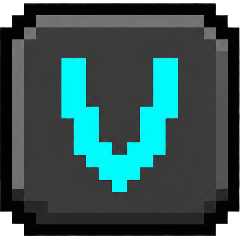
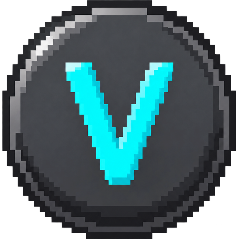
feat(touch): import corrected 0.3.5 art and PC box gesture module

diff --git a/src/OpenGMK/gm8emulator/src/box_touch.rs b/src/OpenGMK/gm8emulator/src/box_touch.rs
@@ -1,0 +1,237 @@
+//! PC-box input arbitration. A stationary hold must not pick up a Pokémon first.
+//! The Android bridge owns context/lifecycle cancellation and sends the initial hover.
+use std::time::{Duration, Instant};
+
+pub const LEFT: u8 = 0;
+pub const RIGHT: u8 = 2; // ramen: 0=left, 1=middle, 2=right
+const HOLD: Duration = Duration::from_secs(1);
+const HOVER: Duration = Duration::from_millis(45);
+const CLICK: Duration = Duration::from_millis(70);
+
+#[derive(Clone, Copy, Debug, PartialEq)]
+pub struct Point(pub f32, pub f32);
+
+#[derive(Clone, Copy, Debug, PartialEq)]
+pub enum Event {
+    Move(Point),
+    Down(Point, u8),
+    Up(Point, u8),
+}
+
+#[derive(Clone, Copy)]
+enum Phase {
+    Waiting,
+    LeftPending(Instant),
+    LeftDown { at: Instant, last: Point },
+    RightDown(Instant),
+    Consumed,
+}
+
+struct Gesture {
+    id: i32,
+    origin: Point,
+    latest: Point,
+    started: Instant,
+    slop: f32,
+    released: bool,
+    allow_hold: bool,
+    phase: Phase,
+}
+
+pub struct BoxTouch {
+    gesture: Option<Gesture>,
+}
+
+impl BoxTouch {
+    pub const fn new() -> Self { Self { gesture: None } }
+
+    pub fn owns(&self, id: i32) -> bool {
+        self.gesture.as_ref().is_some_and(|g| g.id == id)
+    }
+
+    pub fn begin(&mut self, id: i32, point: Point, height: f32, now: Instant) -> bool {
+        if let Some(g) = self.gesture.as_mut() {
+            // There is one game mouse. A second finger cannot move or release it.
+            g.allow_hold = false;
+            return false
+        }
+        self.gesture = Some(Gesture {
+            id, origin: point, latest: point, started: now,
+            slop: (height * 0.015).clamp(8.0, 24.0),
+            released: false, allow_hold: true, phase: Phase::Waiting,
+        });
+        true
+    }
+
+    pub fn moved(&mut self, id: i32, point: Point, now: Instant) -> bool {
+        let Some(g) = self.gesture.as_mut().filter(|g| g.id == id) else { return false };
+        if g.released { return true }
+        g.latest = point;
+        let dx = point.0 - g.origin.0;
+        let dy = point.1 - g.origin.1;
+        if matches!(g.phase, Phase::Waiting) && dx * dx + dy * dy > g.slop * g.slop {
+            g.allow_hold = false;
+            g.phase = Phase::LeftPending((g.started + HOVER).max(now));
+        }
+        true
+    }
+
+    pub fn end(&mut self, id: i32, point: Point, now: Instant) -> bool {
+        if !self.moved(id, point, now) { return false }
+        let g = self.gesture.as_mut().unwrap();
+        g.released = true;
+        if matches!(g.phase, Phase::Waiting) && !(g.allow_hold && now >= g.started + HOLD) {
+            g.phase = Phase::LeftPending((g.started + HOVER).max(now));
+        }
+        if matches!(g.phase, Phase::Consumed) { self.gesture = None; }
+        true
+    }
+
+    /// Down and up always reach separate polls, including when a slow frame misses the deadline.
+    pub fn poll(&mut self, now: Instant) -> Vec<Event> {
+        let mut events = Vec::new();
+        let Some(g) = self.gesture.as_mut() else { return events };
+        match g.phase {
+            Phase::Waiting if g.allow_hold && now >= g.started + HOLD => {
+                events.push(Event::Down(g.origin, RIGHT));
+                g.phase = Phase::RightDown(now + CLICK);
+            },
+            Phase::LeftPending(due) if now >= due => {
+                events.push(Event::Down(g.origin, LEFT));
+                g.phase = Phase::LeftDown { at: now, last: g.origin };
+            },
+            Phase::LeftDown { at, last } => {
+                // First pick up at the original cell, then move to the drag destination.
+                if now >= at + HOVER && last != g.latest {
+                    events.push(Event::Move(g.latest));
+                    g.phase = Phase::LeftDown { at, last: g.latest };
+                }
+                if g.released && now >= at + CLICK {
+                    events.push(Event::Up(g.latest, LEFT));
+                    self.gesture = None;
+                }
+            },
+            Phase::RightDown(due) if now >= due => {
+                events.push(Event::Up(g.origin, RIGHT));
+                g.phase = Phase::Consumed;
+                if g.released { self.gesture = None; }
+            },
+            _ => {},
+        }
+        events
+    }
+
+    /// Release only a button actually delivered. Pending gestures never become clicks on exit.
+    pub fn cancel(&mut self) -> (Option<i32>, Vec<Event>) {
+        let Some(g) = self.gesture.take() else { return (None, Vec::new()) };
+        let events = match g.phase {
+            Phase::LeftDown { last, .. } => vec![Event::Up(last, LEFT)],
+            Phase::RightDown(_) => vec![Event::Up(g.origin, RIGHT)],
+            _ => Vec::new(),
+        };
+        (Some(g.id), events)
+    }
+}
+
+#[cfg(test)]
+mod tests {
+    use super::*;
+    const ORIGIN: Point = Point(300.0, 200.0);
+    const DEST: Point = Point(500.0, 250.0);
+    fn setup() -> (BoxTouch, Instant) {
+        let mut touch = BoxTouch::new();
+        let t = Instant::now();
+        assert!(touch.begin(7, ORIGIN, 720.0, t));
+        (touch, t)
+    }
+    fn ms(t: Instant, n: u64) -> Instant { t + Duration::from_millis(n) }
+
+    #[test]
+    fn stationary_hold_is_one_right_click_without_primary_click() {
+        let (mut b, t) = setup();
+        assert!(b.poll(ms(t, 999)).is_empty());
+        assert_eq!(b.poll(ms(t, 1000)), vec![Event::Down(ORIGIN, RIGHT)]);
+        assert!(b.poll(ms(t, 1069)).is_empty());
+        assert_eq!(b.poll(ms(t, 1070)), vec![Event::Up(ORIGIN, RIGHT)]);
+        assert!(b.poll(ms(t, 5000)).is_empty());
+        assert!(b.end(7, ORIGIN, ms(t, 6000)));
+        assert!(b.poll(ms(t, 6000)).is_empty());
+        assert!(!b.owns(7));
+    }
+
+    #[test]
+    fn quick_tap_waits_for_hover_and_keeps_primary_down_long_enough() {
+        let (mut b, t) = setup();
+        assert!(b.end(7, ORIGIN, ms(t, 10)));
+        assert!(b.poll(ms(t, 44)).is_empty());
+        assert_eq!(b.poll(ms(t, 45)), vec![Event::Down(ORIGIN, LEFT)]);
+        assert!(b.poll(ms(t, 114)).is_empty());
+        assert_eq!(b.poll(ms(t, 115)), vec![Event::Up(ORIGIN, LEFT)]);
+        assert!(!b.owns(7));
+    }
+
+    #[test]
+    fn drag_starts_at_original_cell_and_never_becomes_a_hold() {
+        let (mut b, t) = setup();
+        b.moved(7, DEST, ms(t, 100));
+        assert_eq!(b.poll(ms(t, 100)), vec![Event::Down(ORIGIN, LEFT)]);
+        assert!(b.poll(ms(t, 144)).is_empty());
+        assert_eq!(b.poll(ms(t, 145)), vec![Event::Move(DEST)]);
+        b.moved(7, ORIGIN, ms(t, 800));
+        assert_eq!(b.poll(ms(t, 2000)), vec![Event::Move(ORIGIN)]);
+        b.end(7, DEST, ms(t, 2500));
+        assert_eq!(b.poll(ms(t, 2500)), vec![Event::Move(DEST), Event::Up(DEST, LEFT)]);
+    }
+
+    #[test]
+    fn small_finger_jitter_does_not_cancel_hold() {
+        let (mut b, t) = setup();
+        b.moved(7, Point(304.0, 203.0), ms(t, 900));
+        assert_eq!(b.poll(ms(t, 1000)), vec![Event::Down(ORIGIN, RIGHT)]);
+    }
+
+    #[test]
+    fn second_finger_cannot_steal_mouse_or_trigger_long_press() {
+        let (mut b, t) = setup();
+        assert!(!b.begin(8, DEST, 720.0, ms(t, 500)));
+        assert!(!b.moved(8, DEST, ms(t, 600)));
+        assert!(!b.end(8, DEST, ms(t, 700)));
+        assert!(b.poll(ms(t, 2000)).is_empty());
+        b.end(7, ORIGIN, ms(t, 2100));
+        assert_eq!(b.poll(ms(t, 2100)), vec![Event::Down(ORIGIN, LEFT)]);
+    }
+
+    #[test]
+    fn cancellation_discards_pending_click_and_allows_pointer_reuse() {
+        let (mut b, t) = setup();
+        assert_eq!(b.cancel(), (Some(7), vec![]));
+        assert!(b.poll(ms(t, 5000)).is_empty());
+        assert!(!b.end(7, ORIGIN, ms(t, 5001)));
+        assert!(b.begin(7, DEST, 720.0, ms(t, 5002)));
+    }
+
+    #[test]
+    fn cancellation_releases_each_delivered_mouse_button_once() {
+        for button in [LEFT, RIGHT] {
+            let (mut b, t) = setup();
+            if button == LEFT { b.end(7, ORIGIN, ms(t, 10)); }
+            assert_eq!(b.poll(ms(t, 1000)), vec![Event::Down(ORIGIN, button)]);
+            assert_eq!(b.cancel(), (Some(7), vec![Event::Up(ORIGIN, button)]));
+            assert_eq!(b.cancel(), (None, vec![]));
+            assert!(b.poll(ms(t, 5000)).is_empty());
+        }
+    }
+
+    #[test]
+    fn release_at_hold_deadline_never_produces_both_clicks() {
+        for before_poll in [true, false] {
+            let (mut b, t) = setup();
+            if before_poll { b.end(7, ORIGIN, ms(t, 1000)); }
+            assert_eq!(b.poll(ms(t, 1000)), vec![Event::Down(ORIGIN, RIGHT)]);
+            if !before_poll { b.end(7, ORIGIN, ms(t, 1030)); }
+            assert_eq!(b.poll(ms(t, 1070)), vec![Event::Up(ORIGIN, RIGHT)]);
+            assert!(b.poll(ms(t, 3000)).is_empty());
+            assert!(!b.owns(7));
+        }
+    }
+}

diff --git a/verification/touch_tests.rs b/verification/touch_tests.rs
@@ -1,0 +1,53 @@
+#![allow(dead_code)]
+extern crate self as ramen;
+#[path = "../vendor/ramen/src/input.rs"] pub mod input;
+#[path = "../src/OpenGMK/gm8emulator/src/touch_controls.rs"] mod touch_controls;
+#[path = "../src/OpenGMK/gm8emulator/src/touch_appearance.rs"] mod touch_appearance;
+#[path = "../src/OpenGMK/gm8emulator/src/field_controls.rs"] mod field_controls;
+#[path = "../src/OpenGMK/gm8emulator/src/touch_navigation.rs"] mod touch_navigation;
+#[path = "../src/OpenGMK/gm8emulator/src/box_touch.rs"] mod box_touch;
+
+#[test]
+fn profiles_keep_automatic_switching_and_correct_key8_in_both_visual_styles() {
+    use touch_controls as tc;
+    tc::set_overlay_style(tc::OverlayStyle::Classic);
+    tc::set_room(100);
+    tc::set_modal_id(-1);
+    let idx = |name: &str| tc::controls().iter().position(|c| c.name == name).unwrap();
+    let eight = idx("alpha8");
+    assert_eq!(tc::controls()[eight].key, input::Key::Alpha8);
+    assert!(matches!(tc::controls()[eight].label, tc::Label::Text("8")));
+    for style in ["modern", "classic"] {
+        touch_appearance::load(&format!("touch-appearance-v1\nstyle={style}\n"));
+        assert!(tc::is_active(eight));
+        assert!(tc::is_active(idx("sel_world")));
+        for n in 1..=7 { assert!(!tc::is_active(idx(&format!("alpha{n}")))); }
+        match tc::window_shape_for(eight, 1536.0, 720.0) {
+            tc::Shape::Circle { cx, cy, r } => {
+                assert!((cx - 0.228).abs() < 0.0001);
+                assert!((cy - 0.05).abs() < 0.0001);
+                assert!((r - 0.022).abs() < 0.0001);
+            },
+            _ => panic!("button8 must retain the standard circular touch target"),
+        }
+        assert_eq!(tc::hit(0.228, 0.05, 1536.0, 720.0), Some(eight));
+    }
+    touch_navigation::report(200, -1, true);
+    tc::set_room(200);
+    assert_eq!(tc::current_context(), tc::MENU_NAV);
+    assert!(tc::is_active(idx("z")) && tc::is_active(idx("x")));
+    assert!(tc::movement_active());
+    assert!(!tc::is_active(eight) && !tc::is_active(idx("v")));
+    tc::set_box_open(true);
+    assert_eq!(tc::current_context(), tc::MENU);
+    assert!(!tc::is_active(idx("z")) && !tc::movement_active());
+    tc::set_box_open(false);
+    touch_navigation::report(47, -1, false);
+    tc::set_room(47);
+    assert_eq!(tc::current_context(), tc::BATTLE);
+    assert!(tc::is_active(idx("pkmn")));
+    assert!(!tc::is_active(idx("sel_world")) && !tc::is_active(eight));
+    touch_navigation::report(100, -1, false);
+    tc::set_room(100);
+    assert!(tc::is_active(eight));
+}
